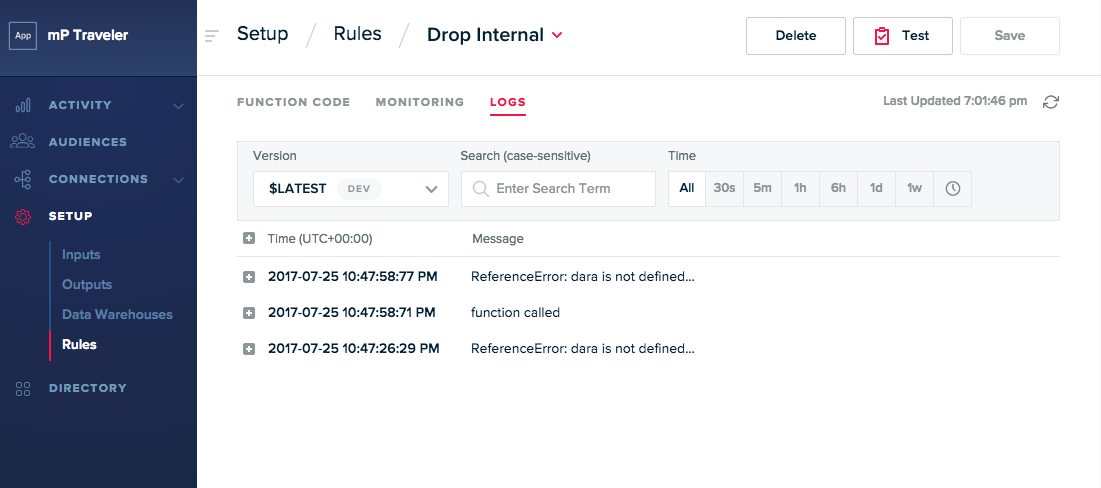
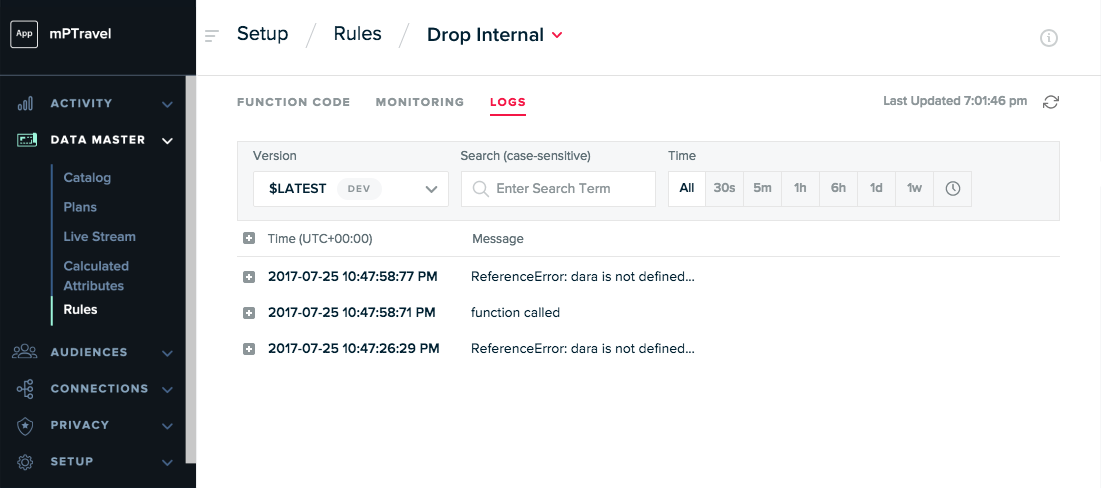
remove outdated labels from rules images (#1868)
* Update images and text referencing Rules under Setup

* Remove beta tag from images

* remove unused files

diff --git a/src/pages/guides/platform-guide/rules/index.md b/src/pages/guides/platform-guide/rules/index.md
@@ -131,11 +131,11 @@ Assign this role to each Lambda function you plan to deploy as an mParticle Rule
 1. Create a Rule by navigating to **Data Master > Rules** 
 2. Click **New Rule**.
 
-![Rules](/images/Platform-Update-Rules-Overview-042019.png)
+![Rules](/images/rules-new-rule.png)
 
 Enter your Development and Production ARNs and click **Test**.
 
-![Rules](/images/Platform-Update-Rules-Testing-Rules-042019.png)
+![Rules](/images/rules-configure.png)
 
 ## Error Handling
 
@@ -205,14 +205,14 @@ The following metrics are available:
 
 These metrics are for the last 24 hours and apply to all connections. Summaries for each Rule can be seen on the main Rules page. Detailed graph of the previous 24 hours is available on the **Monitoring** tab of the individual Rule page.
 
-![](/images/Platform-Update-Rules-Monitoring-042019.png)
+![](/images/rules-monitor.png)
 
 ## Logs
 
 To help you with troubleshooting Rules, mParticle maintains logs for each Rule where you can view all console output. From an individual Rule page, select the **Logs** tab. You can filter messages by date range or search for keywords.
 
 
-![](/images/Platform-Update-Rules-Logs-042019.png)
+![](/images/rules-logs.png)
 
 
 ## Deleting Rules
